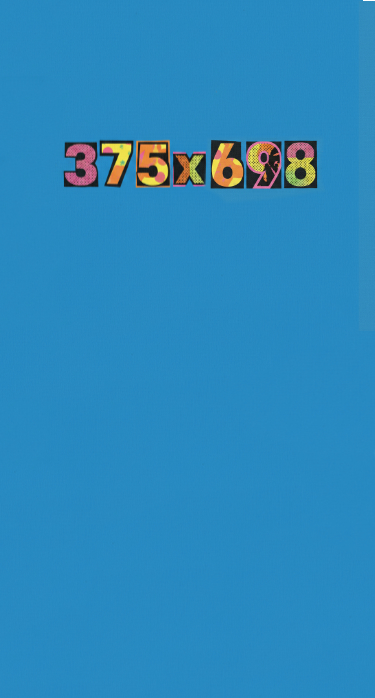
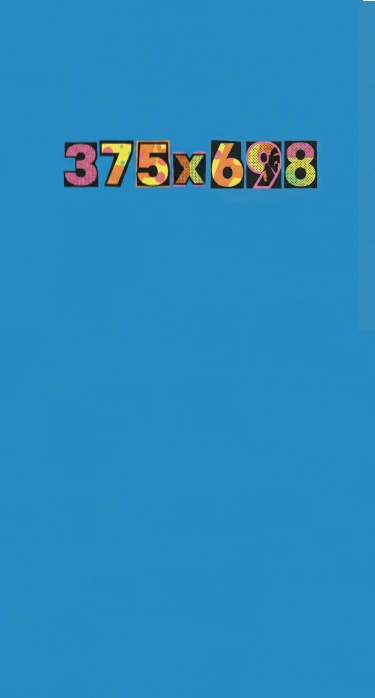
sync accordion and tab index, refactor code, remove dist, compress mobile image

diff --git a/src/components/HeroBanner.jsx b/src/components/HeroBanner.jsx
@@ -13,6 +13,7 @@ export default function HeroBanner() {
         modules={[Pagination, Autoplay, Navigation]}
         navigation
         pagination={{ clickable: true }}
+        autoplay={{ delay: 5000, disableOnInteraction: false }}
         loop
       >
         {BANNER_DATA.map((item, index) => (
@@ -34,23 +35,29 @@ export default function HeroBanner() {
             <div className="hero-banner__content absolute bottom-0 left-0 w-full bg-trans500 px-3 pb-10 pt-6 lg:px-6 lg:py-10">
               <div className="grid grid-cols-1 gap-[10px] lg:grid-cols-3">
                 <div>
-                  <p className="hero-banner__subtitle mb-2 font-poppins text-[10px] font-semibold leading-[14px] tracking-normal text-white lg:font-arial lg:text-xs/[14px] lg:font-bold">
+                  <p className="hero-banner__subtitle mb-2 font-poppins text-[10px]/[15px] font-semibold tracking-normal text-white lg:font-arial lg:text-xs/[14px] lg:font-bold">
                     {item.subtitle}
                   </p>
-                  <h2 className="hero-banner__title mb-4 font-roboto text-4xl font-normal leading-[42px] tracking-normal text-white lg:font-arial lg:text-14 lg:leading-[64px]">
+                  <h2 className="hero-banner__title mb-4 font-roboto text-4xl/[42px] font-normal tracking-normal text-white lg:font-arial lg:text-14/[64px]">
                     {item.title}
                   </h2>
-                  <p className="hero-banner__description mb-4 font-poppins text-[10px] font-normal leading-[15px] tracking-normal text-white lg:font-arial lg:text-xs lg:leading-[14px]">
+                  <p className="hero-banner__description mb-4 font-poppins text-[10px]/[15px] font-normal tracking-normal text-white lg:font-arial lg:text-xs/[14px]">
                     {item.description}
                   </p>
                   <div className="hero-banner__action space-x-2">
-                    {item.buttons.map((btn) => (
+                    {item.buttons.map((btn, index) => (
                       <a
                         key={btn.label}
-                        className="hero-banner__btn inline-block border px-6 py-[11px] font-arial text-[12px] font-bold leading-[18px] text-white transition-colors duration-200 ease-out hover:bg-white hover:text-black lg:text-xs lg:leading-[14px]"
+                        className={`hero-banner__btn group inline-block border px-6 py-[11px] font-poppins text-[12px]/[18px] font-semibold tracking-[-0.2px] transition-all duration-200 ease-out lg:font-arial lg:text-xs/[14px] lg:font-bold ${
+                          index === 0
+                            ? "border-white bg-white text-black hover:border-white hover:bg-transparent hover:text-white"
+                            : "border-white bg-transparent text-white hover:border-transparent hover:bg-white hover:text-black"
+                        }`}
                         href={btn.url}
                       >
-                        {btn.label}
+                        <span className="inline-block transition-transform duration-200 ease-out group-hover:scale-110">
+                          {btn.label}
+                        </span>
                       </a>
                     ))}
                   </div>

diff --git a/src/components/TabList.jsx b/src/components/TabList.jsx
@@ -1,48 +1,36 @@
-import { useState } from "react";
 import DATA from "../data/data.json";
-export default function TabList() {
-  const [tabSelectedIndex, setTabSelectedIndex] = useState(0);
-  function handleSelectTab(index) {
-    setTabSelectedIndex(index);
-  }
-
+export default function TabList({ selectedIndex, onSelect }) {
+  const safeIndex = selectedIndex ?? 0;
   return (
     <div className="tab-wrapper flex h-screen justify-center bg-green-matcha">
       <div className="tab-box fixed top-20 max-w-[700px] rounded-3xl bg-white p-[30px] shadow-lg">
-        <ul
-          className="tab__headers flex flex-row"
-          style={{ maxWidth: "960px" }}
-        >
+        <ul className="tab__headers flex max-w-[960px] flex-row border-b">
           {Array.isArray(DATA) &&
             DATA.map((item, index) => (
-              <li key={index} className="relative">
-                <a
-                  className={`block px-6 py-4 font-poppins font-semibold text-gray-light ${tabSelectedIndex === index ? "text-green-olive" : ""}`}
+              <li key={item.id} className="relative">
+                <button
+                  className={`px-6 py-4 font-poppins font-semibold text-gray-light ${safeIndex === index ? "text-green-olive" : ""}`}
                   aria-current="page"
-                  onClick={() => handleSelectTab(index)}
+                  onClick={() => onSelect(index)}
                   href="#"
                 >
                   {item.title}
-                </a>
+                </button>
                 <span
                   className={`absolute bottom-0 left-0 h-[2px] w-full origin-center transform bg-green-olive transition-transform duration-200 ease-in ${
-                    tabSelectedIndex === index ? "scale-x-100" : "scale-x-0"
+                    safeIndex === index ? "scale-x-100" : "scale-x-0"
                   }`}
                 />
               </li>
             ))}
         </ul>
-        <div className="border"></div>
-        <div
-          className="tab__body min-h-[270px] animate-fade-in px-6 py-3"
-          key={tabSelectedIndex}
-        >
+        <div className="tab__body min-h-[270px] animate-fade-in px-6 py-3">
           <h2 className="tab__title py-4 font-poppins text-2xl font-semibold">
-            {DATA[tabSelectedIndex].title}
+            {DATA[safeIndex].title}
           </h2>
           <div
             className="tab__content font-poppins"
-            dangerouslySetInnerHTML={{ __html: DATA[tabSelectedIndex].content }}
+            dangerouslySetInnerHTML={{ __html: DATA[safeIndex].content }}
           ></div>
         </div>
       </div>

diff --git a/src/components/AccordionList.jsx b/src/components/AccordionList.jsx
@@ -1,22 +1,19 @@
-import { useState } from "react";
 import DATA from "../data/data.json";
 
-export default function AccordionList() {
-  const [accordionSelectedIndex, setAccordionSelectedIndex] = useState(0);
-
-  function handleSelectAccordion(index) {
-    setAccordionSelectedIndex((prev) => (prev === index ? null : index));
-  }
+export default function AccordionList({ selectedIndex, onSelect }) {
+  const handleSelectAccordion = (index) => {
+    onSelect((prev) => (prev === index ? null : index));
+  };
 
   return (
     <div className="accordions-wrapper flex h-screen justify-center bg-green-matcha">
       <div className="accordions fixed left-6 right-6 top-20 m-auto max-w-[700px] rounded-sm bg-white shadow-lg">
         {Array.isArray(DATA) &&
           DATA.map((item, index) => {
-            const isActive = accordionSelectedIndex === index;
+            const isActive = selectedIndex === index;
 
             return (
-              <div key={index} className="accordion border-b border-gray-200">
+              <div key={item.id} className="accordion border-b border-gray-200">
                 <div
                   className="accordion__title flex cursor-pointer justify-between px-6 py-8"
                   onClick={() => handleSelectAccordion(index)}

diff --git a/src/pages/Exercise2/Exercise2.jsx b/src/pages/Exercise2/Exercise2.jsx
@@ -3,9 +3,12 @@ import AccordionList from "../../components/AccordionList";
 import BackButton from "../../components/BackButton";
 import TabList from "../../components/TabList";
 import { useMediaQuery } from "../../hooks/useMediaQuery";
+import { useState } from "react";
 
 export default function Excercise2() {
   const isMobile = useMediaQuery("(max-width: 1024px)");
+  const [selectedIndex, setSelectedIndex] = useState(0);
+
   return (
     <>
       <Helmet>
@@ -14,7 +17,14 @@ export default function Excercise2() {
       </Helmet>
       <div className="relative">
         <BackButton />
-        {isMobile ? <AccordionList /> : <TabList />}
+        {isMobile ? (
+          <AccordionList
+            selectedIndex={selectedIndex}
+            onSelect={setSelectedIndex}
+          />
+        ) : (
+          <TabList selectedIndex={selectedIndex} onSelect={setSelectedIndex} />
+        )}
       </div>
     </>
   );

diff --git a/src/components/ProductItem.jsx b/src/components/ProductItem.jsx
@@ -4,14 +4,14 @@ export default function ProductItem({ product }) {
    * @param {number} price
    * @returns {string}
    */
-  function formatPrice(price) {
+  const formatPrice = (price) => {
     const n = Number(price);
     if (Number.isNaN(n)) return price ?? "";
     return `$${n.toFixed(2)}`;
-  }
+  };
 
   return (
-    <div className="product shadow-drop transition-all duration-200 ease-out hover:-translate-y-[10px] hover:shadow-drop-hover">
+    <div className="product shadow-drop-mobile transition-all duration-200 ease-out hover:shadow-drop-hover lg:shadow-drop lg:hover:-translate-y-[10px]">
       <a href={product.product_url} aria-label={product.heading}>
         <picture className="block w-full">
           <source media="(max-width: 1023px)" srcSet={product.image_mb_url} />

diff --git a/src/styles/scss/components/hero-banner.scss b/src/styles/scss/components/hero-banner.scss
@@ -5,7 +5,7 @@
   }
 
   .swiper-pagination-bullet {
-    @apply h-2 w-2 rounded-full bg-white opacity-50;
+    @apply h-2 w-2 rounded-full bg-white opacity-75;
   }
 
   .swiper-pagination-bullet-active {
@@ -18,8 +18,10 @@
   }
 
   .swiper-button-prev {
-    @apply lg:ml-[13px];
     margin-left: -7px !important;
+    @screen lg {
+      margin-left: 13px !important;
+    }
   }
   .swiper-button-next {
     @apply -mr-[7px] lg:mr-[13px];

diff --git a/tailwind.config.js b/tailwind.config.js
@@ -21,6 +21,7 @@ export default {
       },
       boxShadow: {
         drop: "0px 0px 16.1px 0px rgba(0, 0, 0, 0.5)",
+        "drop-mobile": "0px 0px 16.1px 0px rgba(0, 0, 0, 0.25)",
         "drop-hover": "0px 10px 24px 0px rgba(0, 0, 0, 0.7)",
       },
       keyframes: {

diff --git a/readme.md b/readme.md
@@ -42,6 +42,7 @@
 
 - React 19
 - Vite 8
+- Node 24.12.0
 - TailwindCSS V3 / SCSS
 - React Router
 - Deployment: Netlify
